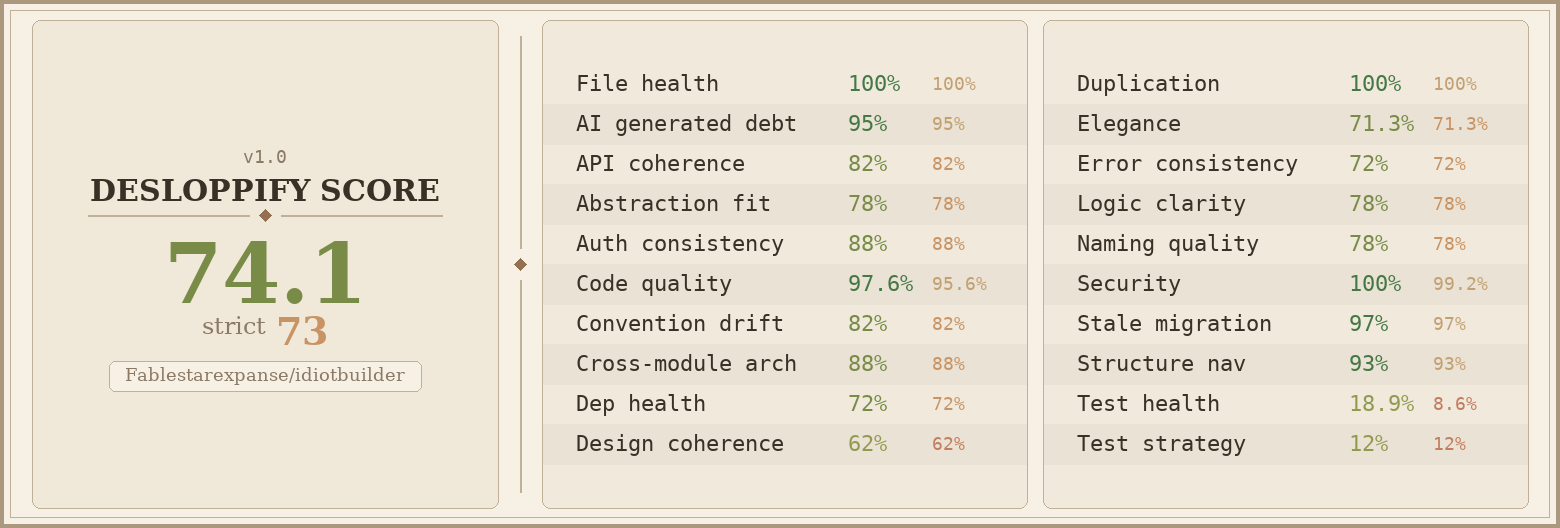
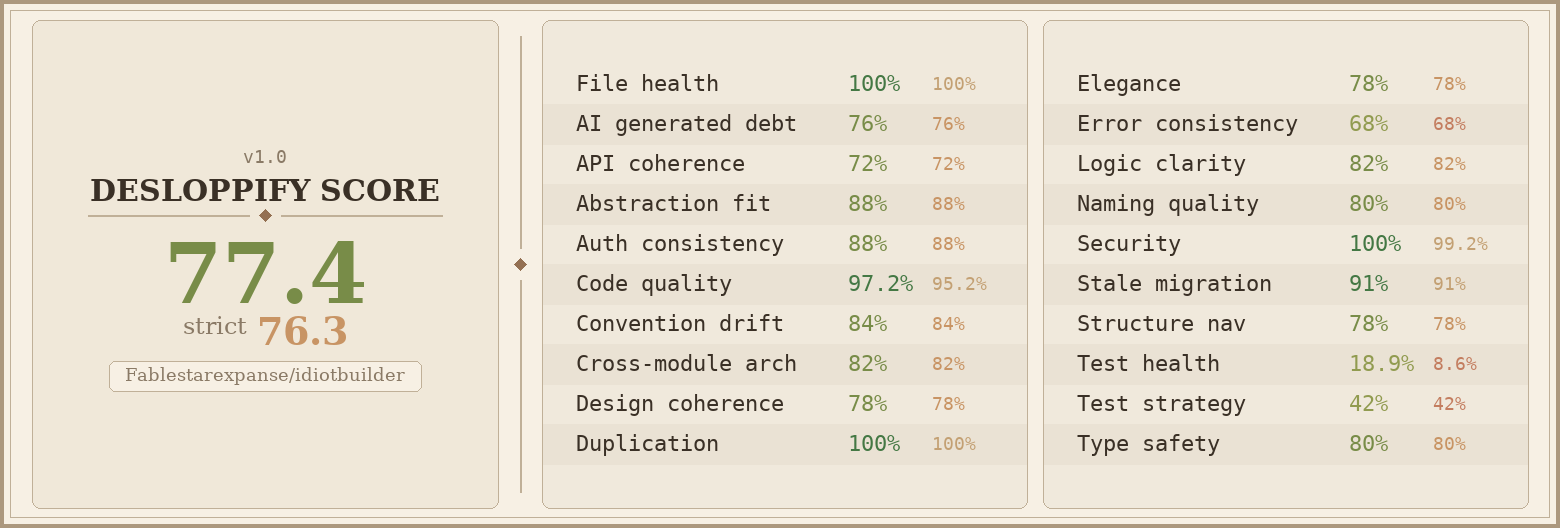
desloppify: major API + dependency cleanup
- Move ParsedPromptState from jsonBuilder.ts to types/prompt.ts (proper domain type home)
- buildIdeogramJson now accepts ParsedPromptState (single arg) — symmetric with parseIdeogramJson
- Create useBuiltJson hook: eliminates duplicated 9-field store destructuring in JsonPanel + JsonExport
- Replace uuidv4 (uuid pkg) with crypto.randomUUID() — remove uuid dependency entirely
- Remove unused @user/plugin-store dependency
- Move @user/uuid to devDependencies
- Fix palette index-as-React-key: use hex+index stable key in ObjectCard + GlobalColorPalette
- Add bbox shape validation in parseIdeogramJson (fallback to full-canvas bbox)
- Add DEFAULT_RESOLUTION_STR constant to link parseIdeogramJson fallback to named constant
- Strip verbose JSDoc from constants.ts (self-documenting names)
- Separate copy/save/open errors in JsonExport into distinct state

diff --git a/src/utils/jsonBuilder.ts b/src/utils/jsonBuilder.ts
@@ -1,16 +1,7 @@
-import { PromptObject, Resolution } from "../types/prompt";
+import { ParsedPromptState, PromptObject, Resolution } from "../types/prompt";
 
-export interface ParsedPromptState {
-  resolution: Resolution;
-  highLevelDescription: string;
-  aesthetics: string;
-  lighting: string;
-  photo: string;
-  medium: string;
-  colorPalette: string[];
-  background: string;
-  objects: PromptObject[];
-}
+// Re-export ParsedPromptState for callers that imported it from here (backwards compat).
+export type { ParsedPromptState };
 
 // ---------------------------------------------------------------------------
 // Output types (internal — matches the LLM JSON schema)
@@ -73,17 +64,13 @@ function denormalizeBbox(
 // buildIdeogramJson
 // ---------------------------------------------------------------------------
 
-export function buildIdeogramJson(
-  resolution: Resolution,
-  highLevelDescription: string,
-  aesthetics: string,
-  lighting: string,
-  photo: string,
-  medium: string,
-  colorPalette: string[],
-  background: string,
-  objects: PromptObject[],
-): IdeogramOutput {
+/**
+ * Serialize store state to the Ideogram LLM JSON schema.
+ * Accepts a ParsedPromptState object so this function and parseIdeogramJson
+ * form a symmetric round-trip pair using the same type.
+ */
+export function buildIdeogramJson(state: ParsedPromptState): IdeogramOutput {
+  const { resolution, highLevelDescription, aesthetics, lighting, photo, medium, colorPalette, background, objects } = state;
   const sorted = [...objects].sort((a, b) => a.zIndex - b.zIndex);
 
   const elements: IdeogramElement[] = sorted.map((obj) => {
@@ -143,6 +130,9 @@ export function buildIdeogramJson(
 // Matches: TEXT: 'content' some desc. bbox=[x1,y1,x2,y2]
 const TEXT_DESC_RE = /^TEXT:\s*'([^']*)'\s*(.*?)\s*bbox=\[(\d+),(\d+),(\d+),(\d+)\]\s*$/s;
 
+/** Default resolution string used when none is present in the saved JSON. */
+const DEFAULT_RESOLUTION_STR = "896x1152";
+
 /**
  * Parse a saved Ideogram JSON file (or LLM output) back into prompt store state.
  * Handles both the new schema (style_description / elements) and the old schema
@@ -154,7 +144,7 @@ export function parseIdeogramJson(text: string): ParsedPromptState {
   const data = JSON.parse(text) as Record<string, unknown>;
 
   // Resolution
-  const resolutionStr = typeof data.resolution === "string" ? data.resolution : "896x1152";
+  const resolutionStr = typeof data.resolution === "string" ? data.resolution : DEFAULT_RESOLUTION_STR;
   const [w, h] = resolutionStr.split("x").map(Number);
   const resolution: Resolution = { width: w, height: h };
 
@@ -219,12 +209,21 @@ export function parseIdeogramJson(text: string): ParsedPromptState {
       };
     }
 
+    // Validate bbox shape — fallback to full-canvas bbox if malformed
+    const rawBbox = o.bbox;
+    const bbox: [number, number, number, number] =
+      Array.isArray(rawBbox) &&
+      rawBbox.length === 4 &&
+      rawBbox.every((v) => typeof v === "number")
+        ? (rawBbox as [number, number, number, number])
+        : [0, 0, w, h];
+
     return {
       id: crypto.randomUUID(),
       label: String(o.label ?? "obj"),
       type: "obj" as const,
       zIndex: Number(o["z-index"] ?? idx + 1),
-      bbox: (o.bbox as [number, number, number, number]) ?? [0, 0, w, h],
+      bbox,
       desc: rawDesc,
       colorPalette: elemPalette,
       extraProps: [],

diff --git a/src/components/shared/JsonExport.tsx b/src/components/shared/JsonExport.tsx
@@ -2,7 +2,8 @@ import { useState } from "react";
 import { save, open } from "@tauri-apps/plugin-dialog";
 import { writeTextFile, readTextFile } from "@tauri-apps/plugin-fs";
 import { usePromptStore } from "../../store/usePromptStore";
-import { buildIdeogramJson, parseIdeogramJson } from "../../utils/jsonBuilder";
+import { useBuiltJson } from "../../store/useBuiltJson";
+import { parseIdeogramJson } from "../../utils/jsonBuilder";
 import "./JsonExport.css";
 
 interface Props {
@@ -10,33 +11,22 @@ interface Props {
 }
 
 export function JsonExport({ onClose }: Props) {
-  const [copied, setCopied] = useState(false);
-  const [saveError, setSaveError] = useState<string | null>(null);
-
-  const resolution = usePromptStore((s) => s.resolution);
-  const highLevelDescription = usePromptStore((s) => s.highLevelDescription);
-  const aesthetics = usePromptStore((s) => s.aesthetics);
-  const lighting = usePromptStore((s) => s.lighting);
-  const photo = usePromptStore((s) => s.photo);
-  const medium = usePromptStore((s) => s.medium);
-  const colorPalette = usePromptStore((s) => s.colorPalette);
-  const background = usePromptStore((s) => s.background);
-  const objects = usePromptStore((s) => s.objects);
   const loadState = usePromptStore((s) => s.loadState);
+  const json = useBuiltJson();
 
-  const json = JSON.stringify(
-    buildIdeogramJson(resolution, highLevelDescription, aesthetics, lighting, photo, medium, colorPalette, background, objects),
-    null,
-    2,
-  );
+  const [copied, setCopied] = useState(false);
+  const [copyError, setCopyError] = useState<string | null>(null);
+  const [saveError, setSaveError] = useState<string | null>(null);
+  const [openError, setOpenError] = useState<string | null>(null);
 
   async function copy() {
+    setCopyError(null);
     try {
       await navigator.clipboard.writeText(json);
       setCopied(true);
       setTimeout(() => setCopied(false), 1500);
     } catch (e) {
-      setSaveError(String(e));
+      setCopyError(String(e));
     }
   }
 
@@ -54,7 +44,7 @@ export function JsonExport({ onClose }: Props) {
   }
 
   async function openFile() {
-    setSaveError(null);
+    setOpenError(null);
     try {
       const path = await open({
         filters: [{ name: "JSON", extensions: ["json"] }],
@@ -66,16 +56,18 @@ export function JsonExport({ onClose }: Props) {
       loadState(parseIdeogramJson(text));
       onClose();
     } catch (e) {
-      setSaveError(String(e));
+      setOpenError(String(e));
     }
   }
+
+  const anyError = copyError ?? saveError ?? openError;
 
   return (
     <div className="modal-overlay" onClick={onClose}>
       <div className="modal json-export-modal" onClick={(e) => e.stopPropagation()}>
         <h2>JSON Output</h2>
         <textarea className="json-output" value={json} readOnly rows={16} />
-        {saveError && <div className="save-error">{saveError}</div>}
+        {anyError && <div className="save-error">{anyError}</div>}
         <div className="modal-actions">
           <button className="btn" onClick={openFile}>Open JSON</button>
           <button className="btn" onClick={saveFile}>Save JSON</button>

diff --git a/src/store/useBuiltJson.ts b/src/store/useBuiltJson.ts
@@ -1,0 +1,25 @@
+import { usePromptStore } from "./usePromptStore";
+import { buildIdeogramJson } from "../utils/jsonBuilder";
+
+/**
+ * Returns the current prompt state serialized to a JSON string.
+ * Centralizes the store→builder translation so JsonPanel and JsonExport
+ * don't each duplicate the 9-field store destructuring.
+ */
+export function useBuiltJson(): string {
+  const resolution = usePromptStore((s) => s.resolution);
+  const highLevelDescription = usePromptStore((s) => s.highLevelDescription);
+  const aesthetics = usePromptStore((s) => s.aesthetics);
+  const lighting = usePromptStore((s) => s.lighting);
+  const photo = usePromptStore((s) => s.photo);
+  const medium = usePromptStore((s) => s.medium);
+  const colorPalette = usePromptStore((s) => s.colorPalette);
+  const background = usePromptStore((s) => s.background);
+  const objects = usePromptStore((s) => s.objects);
+
+  return JSON.stringify(
+    buildIdeogramJson({ resolution, highLevelDescription, aesthetics, lighting, photo, medium, colorPalette, background, objects }),
+    null,
+    2,
+  );
+}

diff --git a/src/utils/jsonBuilder.test.ts b/src/utils/jsonBuilder.test.ts
@@ -35,17 +35,17 @@ function build(
     background?: string;
   } = {},
 ) {
-  return buildIdeogramJson(
-    overrides.resolution ?? RES,
-    overrides.highLevelDescription ?? "",
-    overrides.aesthetics ?? "",
-    overrides.lighting ?? "",
-    overrides.photo ?? "",
-    overrides.medium ?? "",
-    overrides.colorPalette ?? [],
-    overrides.background ?? "",
+  return buildIdeogramJson({
+    resolution: overrides.resolution ?? RES,
+    highLevelDescription: overrides.highLevelDescription ?? "",
+    aesthetics: overrides.aesthetics ?? "",
+    lighting: overrides.lighting ?? "",
+    photo: overrides.photo ?? "",
+    medium: overrides.medium ?? "",
+    colorPalette: overrides.colorPalette ?? [],
+    background: overrides.background ?? "",
     objects,
-  );
+  });
 }
 
 // ---------------------------------------------------------------------------

diff --git a/src/components/shared/JsonPanel.tsx b/src/components/shared/JsonPanel.tsx
@@ -1,27 +1,14 @@
 import { useEffect, useRef, useState } from "react";
 import { usePromptStore } from "../../store/usePromptStore";
-import { buildIdeogramJson, parseIdeogramJson } from "../../utils/jsonBuilder";
+import { useBuiltJson } from "../../store/useBuiltJson";
+import { parseIdeogramJson } from "../../utils/jsonBuilder";
 import "./JsonPanel.css";
 
 const DEBOUNCE_MS = 400;
 
 export function JsonPanel() {
-  const resolution = usePromptStore((s) => s.resolution);
-  const highLevelDescription = usePromptStore((s) => s.highLevelDescription);
-  const aesthetics = usePromptStore((s) => s.aesthetics);
-  const lighting = usePromptStore((s) => s.lighting);
-  const photo = usePromptStore((s) => s.photo);
-  const medium = usePromptStore((s) => s.medium);
-  const colorPalette = usePromptStore((s) => s.colorPalette);
-  const background = usePromptStore((s) => s.background);
-  const objects = usePromptStore((s) => s.objects);
   const loadState = usePromptStore((s) => s.loadState);
-
-  const builtJson = JSON.stringify(
-    buildIdeogramJson(resolution, highLevelDescription, aesthetics, lighting, photo, medium, colorPalette, background, objects),
-    null,
-    2,
-  );
+  const builtJson = useBuiltJson();
 
   const [localJson, setLocalJson] = useState(builtJson);
   const [parseError, setParseError] = useState<string | null>(null);

diff --git a/src/types/prompt.ts b/src/types/prompt.ts
@@ -32,3 +32,20 @@ export interface LmSettings {
   baseUrl: string;
   model: string;
 }
+
+/**
+ * Subset of store state that can be serialized to / deserialized from an
+ * Ideogram JSON file. Used by buildIdeogramJson and parseIdeogramJson as the
+ * shared contract so build and parse form a symmetric round-trip pair.
+ */
+export interface ParsedPromptState {
+  resolution: Resolution;
+  highLevelDescription: string;
+  aesthetics: string;
+  lighting: string;
+  photo: string;
+  medium: string;
+  colorPalette: string[];
+  background: string;
+  objects: PromptObject[];
+}

diff --git a/src/utils/constants.ts b/src/utils/constants.ts
@@ -1,10 +1,4 @@
-/**
- * Shared application constants.
- * Keep all magic strings and default values here so they stay in sync.
- */
+// Shared application constants — all magic strings and default values live here.
 
-/** Default LM Studio chat-completions endpoint. */
 export const DEFAULT_LM_BASE_URL = "http://localhost:1234/v1/chat/completions";
-
-/** Default model placeholder used before auto-detection. */
 export const DEFAULT_LM_MODEL = "local-model";

diff --git a/src/store/usePromptStore.ts b/src/store/usePromptStore.ts
@@ -1,14 +1,13 @@
 import { create } from "zustand";
 import { persist } from "zustand/middleware";
-import { v4 as uuidv4 } from "uuid";
 import {
   AspectRatioPreset,
   ExtraProperty,
   LmSettings,
+  ParsedPromptState,
   PromptObject,
   Resolution,
 } from "../types/prompt";
-import { ParsedPromptState } from "../utils/jsonBuilder";
 import { ASPECT_RATIO_PRESETS } from "../utils/aspectRatios";
 import { DEFAULT_LM_BASE_URL, DEFAULT_LM_MODEL } from "../utils/constants";
 
@@ -110,7 +109,7 @@ export const usePromptStore = create<PromptState>()(
       addObject: () =>
         set((s) => {
           const newObj: PromptObject = {
-            id: uuidv4(),
+            id: crypto.randomUUID(),
             label: `obj`,
             type: "obj",
             zIndex: s.objects.length + 1,
@@ -154,7 +153,7 @@ export const usePromptStore = create<PromptState>()(
         set((s) => ({
           objects: s.objects.map((o) =>
             o.id === objectId
-              ? { ...o, extraProps: [...o.extraProps, { id: uuidv4(), key: "", value: "" }] }
+              ? { ...o, extraProps: [...o.extraProps, { id: crypto.randomUUID(), key: "", value: "" }] }
               : o,
           ),
         })),

diff --git a/src/components/sidebar/GlobalColorPalette.tsx b/src/components/sidebar/GlobalColorPalette.tsx
@@ -14,7 +14,7 @@ export function GlobalColorPalette() {
       <div className="global-palette-row">
         {colorPalette.map((hex, i) => (
           <ColorSwatch
-            key={i}
+            key={`${hex}-${i}`}
             color={hex}
             onChange={(c) => updateGlobalColor(i, c)}
             onRemove={() => removeGlobalColor(i)}

diff --git a/src/components/sidebar/ObjectCard/ObjectCard.tsx b/src/components/sidebar/ObjectCard/ObjectCard.tsx
@@ -165,7 +165,7 @@ export function ObjectCard({ objectId, index }: Props) {
             <div className="global-palette-row">
               {(obj.colorPalette ?? []).map((hex, i) => (
                 <ColorSwatch
-                  key={i}
+                  key={`${hex}-${i}`}
                   color={hex}
                   onChange={(c) => updatePaletteColor(i, c)}
                   onRemove={() => removePaletteColor(i)}